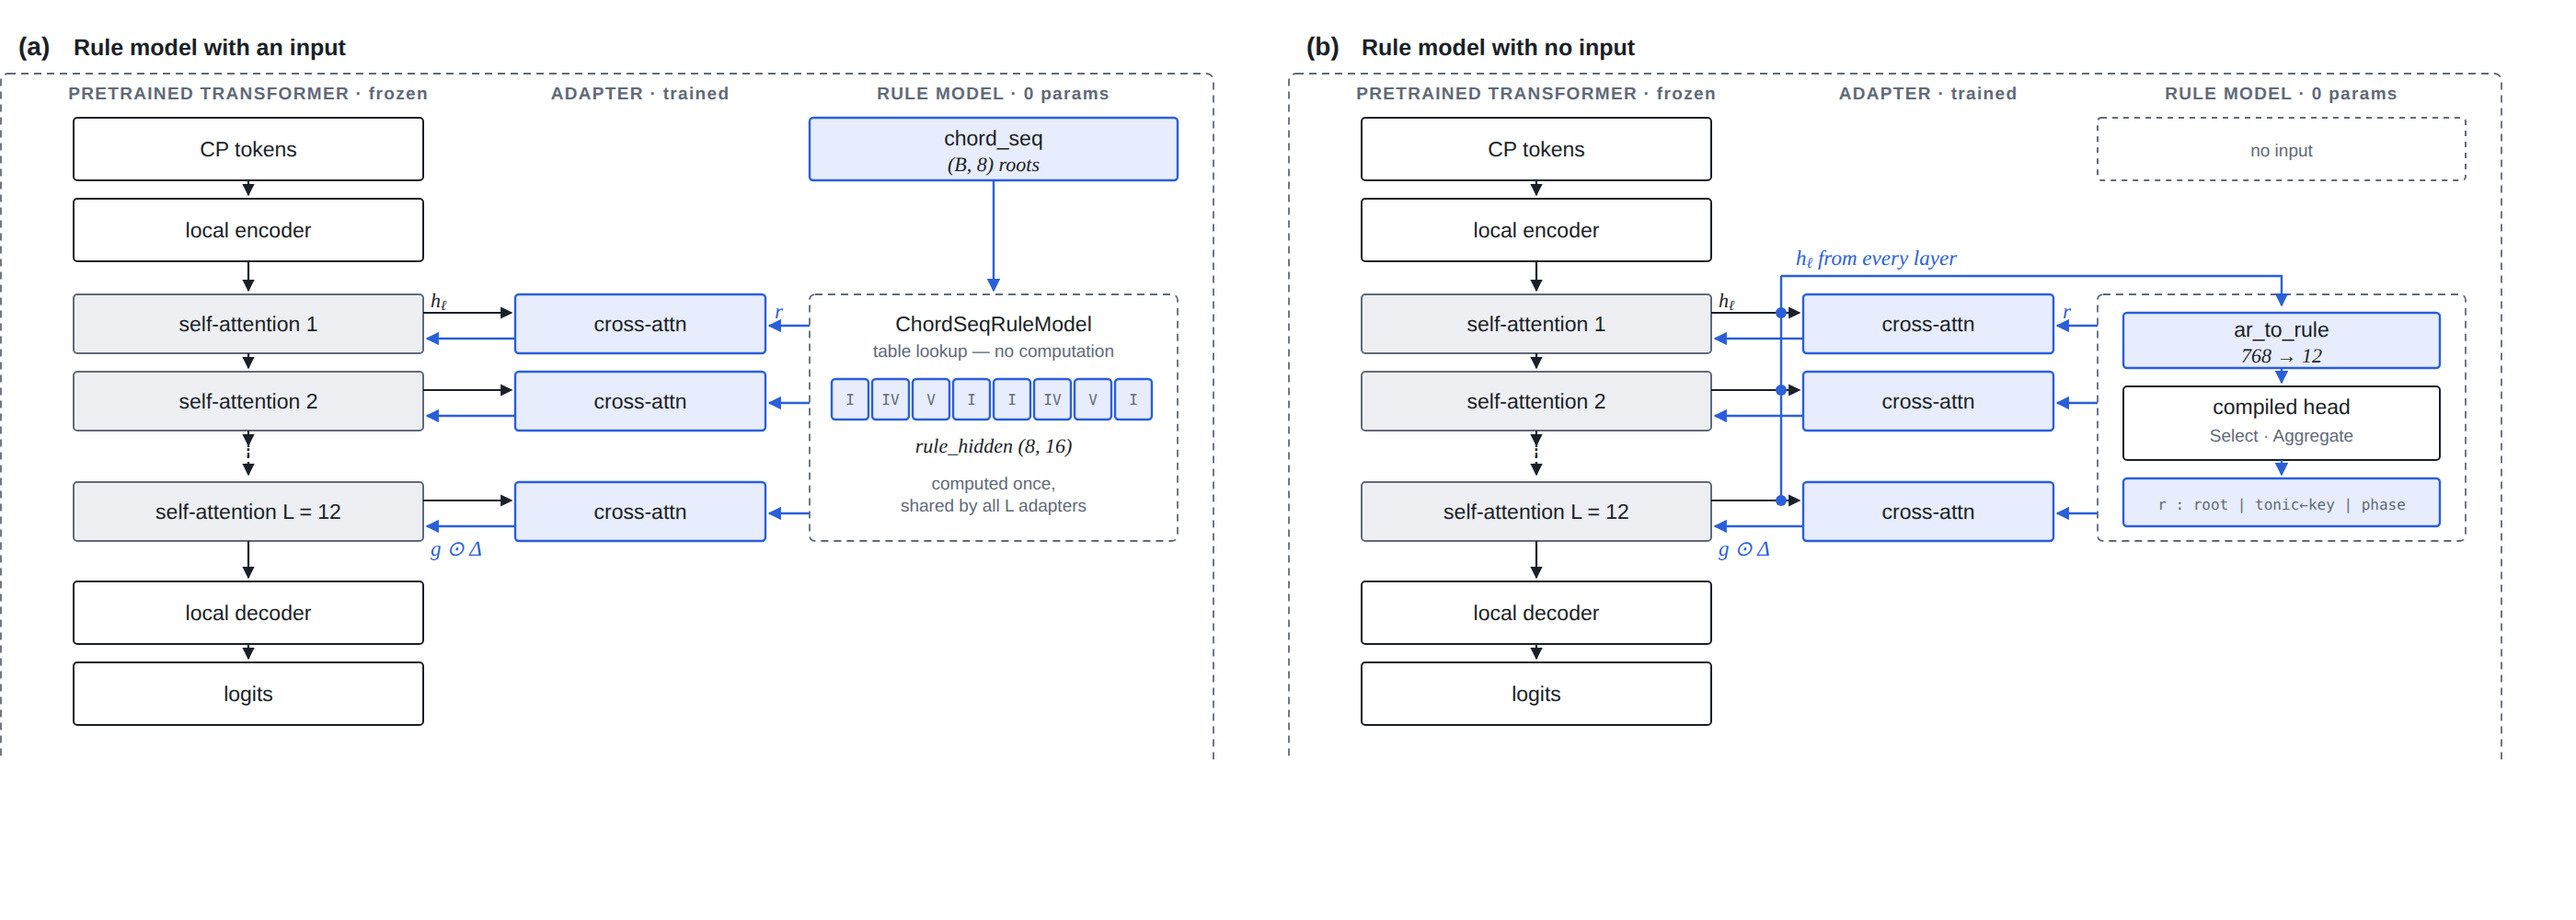
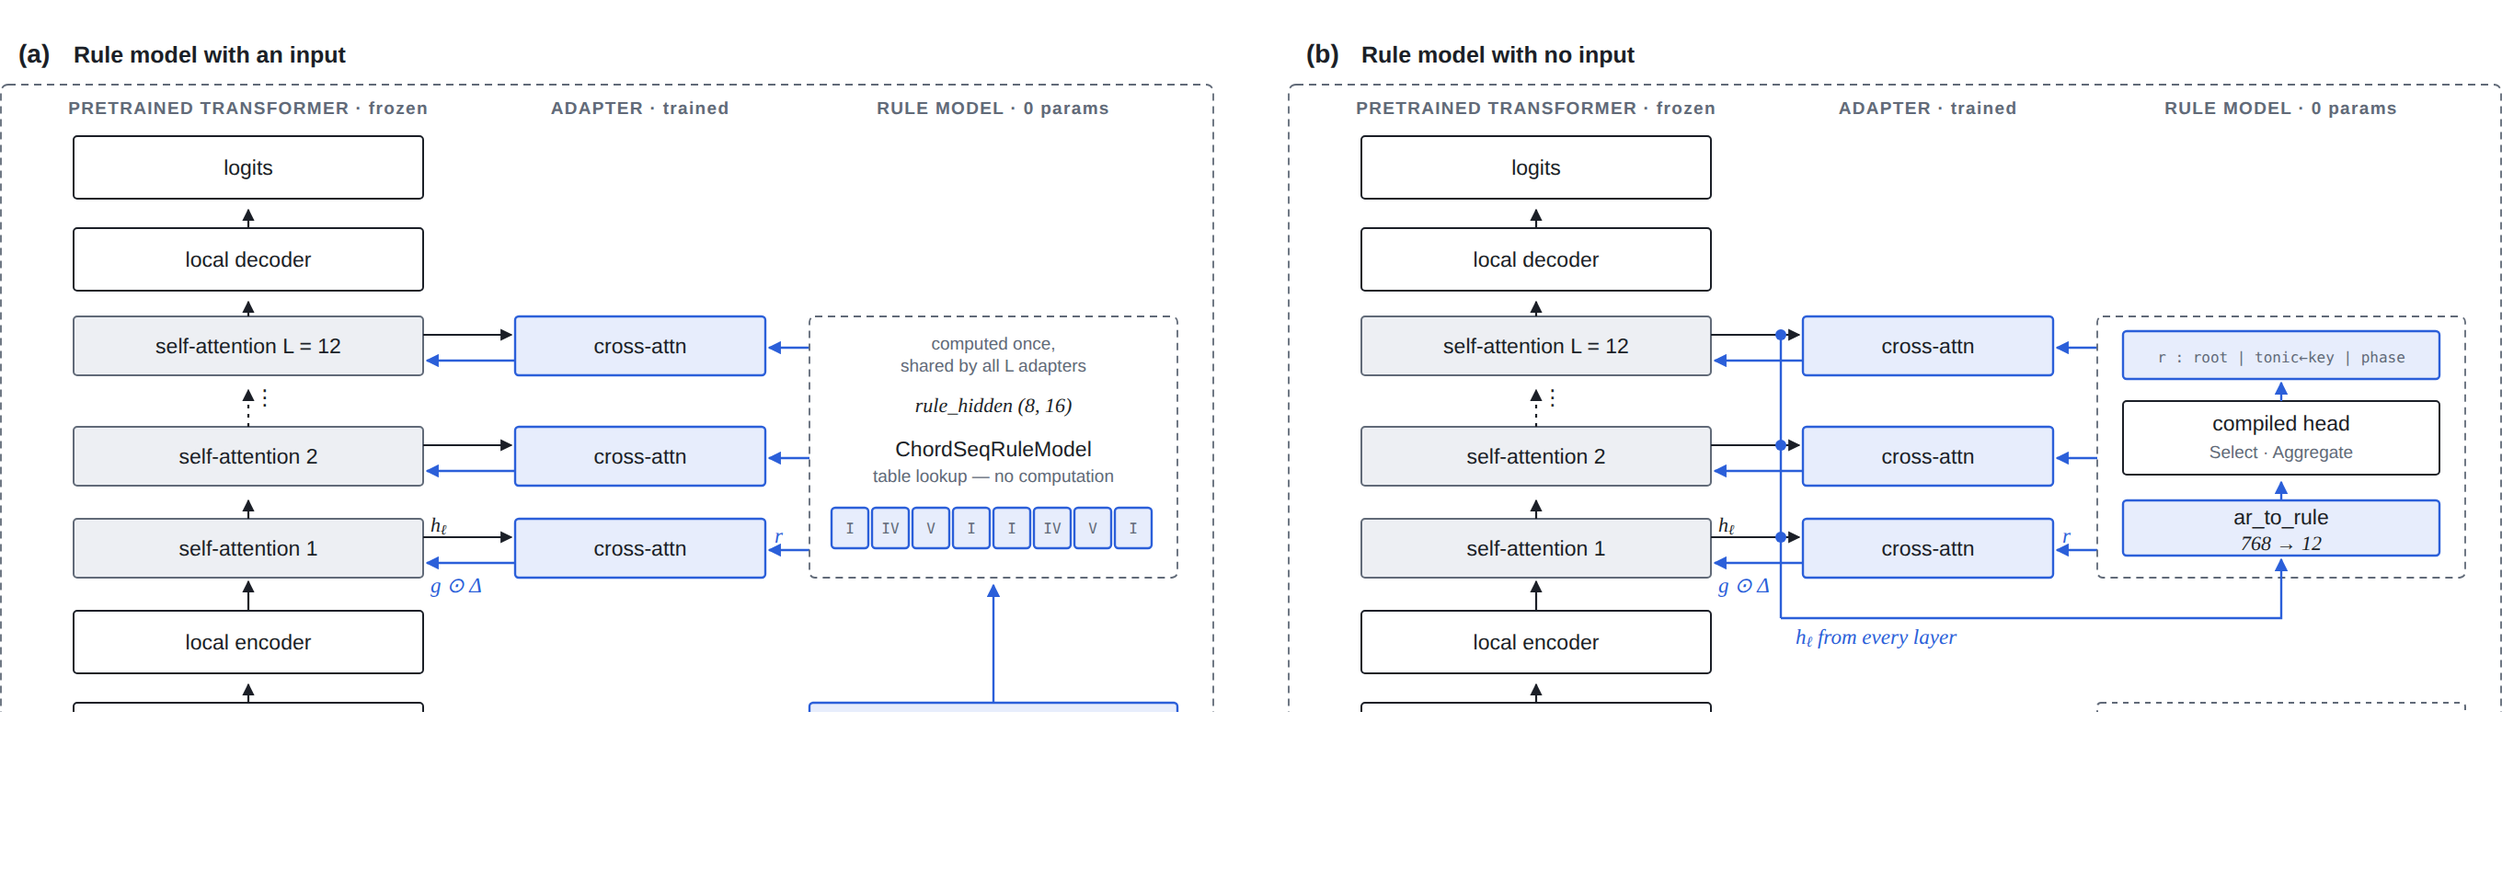
Flip the two-tower figure to bottom-to-top flow
Input now enters at the bottom of each tower and the flow reads upward:
CP tokens -> local encoder -> self-attention 1..L -> local decoder ->
logits, with every arrow pointing up. The rule tower mirrors it --
chord_seq enters at the bottom in (a), and in (b) ar_to_rule sits at the
bottom with the compiled head above it and r at the top, fed by an h bus
routed under the layer band.

Text blocks inside the rule tower are ordered so titles still read
top-to-bottom within each block, even though the flow reads upward.

Claude-Session: https://claude.ai/code/session_01HEgj554V7N4X7CkvQrMZay

diff --git a/figures/make_arch_figures.py b/figures/make_arch_figures.py
@@ -875,34 +875,39 @@ FIGS.append(('model_architecture_vertical', 860, 1080, fig_vertical,
 TW_LX, TW_LW = 40, 190      # left tower
 TW_AX, TW_AW = 280, 136     # adapter column
 TW_RX, TW_RW = 440, 200     # right tower
-TW_ROWS = [(160, '1'), (202, '2'), (262, 'L = 12')]
+
+# Flow runs BOTTOM to TOP: input at the bottom, logits at the top, arrows up.
+TW_Y = {'logits': 74, 'decoder': 124, 'encoder': 332, 'tokens': 382}
+TW_ROWS = [(282, '1'), (232, '2'), (172, 'L = 12')]     # layer 1 lowest
+TW_BAND = (172, 314)        # top and bottom of the layer band
 
 
 def _tower_left():
     s = []
     cx = TW_LX + TW_LW / 2
-    s.append(_label_box(TW_LX, 64, TW_LW, 34, 'CP tokens', None))
-    s.append(_parr(cx, 98, cx, 106))
-    s.append(_label_box(TW_LX, 108, TW_LW, 34, 'local encoder', None))
-    s.append(_parr(cx, 142, cx, 158))
+    s.append(_pt(cx, 62, 'PRETRAINED TRANSFORMER · frozen', 'plane-t', 'middle'))
+    s.append(_label_box(TW_LX, TW_Y['tokens'], TW_LW, 34, 'CP tokens', None))
+    s.append(_parr(cx, TW_Y['tokens'], cx, TW_Y['encoder'] + 40))
+    s.append(_label_box(TW_LX, TW_Y['encoder'], TW_LW, 34, 'local encoder', None))
+    s.append(_parr(cx, TW_Y['encoder'], cx, TW_ROWS[0][0] + 34))
     for i, (y, name) in enumerate(TW_ROWS):
         s.append(_label_box(TW_LX, y, TW_LW, 32, f'self-attention {name}', None, 'pfroz'))
-        if i < 2:
-            s.append(_parr(cx, y + 32, cx, y + 40))
-    s.append(f'<line x1="{cx}" y1="236" x2="{cx}" y2="258" class="parw" '
-             f'stroke-dasharray="2 3" marker-end="url(#ar-ink)"/>')
-    s.append(_pt(cx, 252, '⋮', 'plbl', 'middle'))
-    s.append(_parr(cx, 294, cx, 314))
-    s.append(_label_box(TW_LX, 316, TW_LW, 34, 'local decoder', None))
-    s.append(_parr(cx, 350, cx, 358))
-    s.append(_label_box(TW_LX, 360, TW_LW, 34, 'logits', None))
-    s.append(_pt(cx, 54, 'PRETRAINED TRANSFORMER · frozen', 'plane-t', 'middle'))
+        if i == 0:
+            s.append(_parr(cx, y, cx, TW_ROWS[1][0] + 40))
+    # dotted continuation between layer 2 and layer L
+    s.append(f'<line x1="{cx}" y1="{TW_ROWS[1][0]}" x2="{cx}" y2="{TW_ROWS[2][0] + 40}" '
+             f'class="parw" stroke-dasharray="2 3" marker-end="url(#ar-ink)"/>')
+    s.append(_pt(cx + 9, TW_ROWS[1][0] - 12, '⋮', 'plbl', 'middle'))
+    s.append(_parr(cx, TW_ROWS[2][0], cx, TW_Y['decoder'] + 40))
+    s.append(_label_box(TW_LX, TW_Y['decoder'], TW_LW, 34, 'local decoder', None))
+    s.append(_parr(cx, TW_Y['decoder'], cx, TW_Y['logits'] + 40))
+    s.append(_label_box(TW_LX, TW_Y['logits'], TW_LW, 34, 'logits', None))
     return ''.join(s)
 
 
 def _adapters():
     """The bridge: h in from the left, r in from the right, gΔ back left."""
-    s = [_pt(TW_AX + TW_AW / 2, 54, 'ADAPTER · trained', 'plane-t', 'middle')]
+    s = [_pt(TW_AX + TW_AW / 2, 62, 'ADAPTER · trained', 'plane-t', 'middle')]
     for i, (y, _) in enumerate(TW_ROWS):
         s.append(_label_box(TW_AX, y, TW_AW, 32, 'cross-attn', None, 'pacc'))
         s.append(_parr(TW_LX + TW_LW, y + 10, TW_AX - 2, y + 10))
@@ -910,61 +915,63 @@ def _adapters():
         s.append(_parr(TW_RX, y + 17, TW_AX + TW_AW + 2, y + 17, 'parwa', 'ar-flow'))
         if i == 0:
             s.append(_ptr(TW_LX + TW_LW + 4, y + 7, msub('h', 'ℓ'), 'pmath'))
-            s.append(_pt(TW_AX + TW_AW + 5, y + 13, 'r', 'pmathf'))
-        if i == len(TW_ROWS) - 1:
             s.append(_ptr(TW_LX + TW_LW + 4, y + 40, 'g ⊙ Δ', 'pmathf'))
+            s.append(_pt(TW_AX + TW_AW + 5, y + 13, 'r', 'pmathf'))
     return ''.join(s)
 
 
 def _tower_right(with_input):
-    s = [_pt(TW_RX + TW_RW / 2, 54, 'RULE MODEL · 0 params', 'plane-t', 'middle')]
+    s = [_pt(TW_RX + TW_RW / 2, 62, 'RULE MODEL · 0 params', 'plane-t', 'middle')]
     cx = TW_RX + TW_RW / 2
-    s.append(_pbox(TW_RX, 160, TW_RW, 134, 'pdash', 3))
+    top, bot = TW_BAND
+    s.append(_pbox(TW_RX, top, TW_RW, bot - top, 'pdash', 3))
 
     if with_input:
-        # its own external input, mirroring CP tokens on the left
-        s.append(_label_box(TW_RX, 64, TW_RW, 34, 'chord_seq', '(B, 8) roots', 'pacc'))
-        s.append(_parr(cx, 98, cx, 158, 'parwa', 'ar-flow'))
-        s.append(_pt(cx, 180, 'ChordSeqRuleModel', 'plbl', 'middle'))
-        s.append(_pt(cx, 194, 'table lookup — no computation', 'pcap', 'middle'))
+        # its own external input, at the bottom, mirroring CP tokens
+        s.append(_label_box(TW_RX, TW_Y['tokens'], TW_RW, 34, 'chord_seq',
+                            '(B, 8) roots', 'pacc'))
+        s.append(_parr(cx, TW_Y['tokens'], cx, bot + 4, 'parwa', 'ar-flow'))
         for c, (deg, _) in enumerate(CHORDS):
             x = 452 + c * 22
-            s.append(_pbox(x, 206, 20, 22, 'pacc', 2))
-            s.append(_pt(x + 10, 220, deg, 'pnum', 'middle'))
-        s.append(_pt(cx, 246, 'rule_hidden  (8, 16)', 'pmath', 'middle'))
-        s.append(_pt(cx, 266, 'computed once,', 'pcap', 'middle'))
-        s.append(_pt(cx, 278, 'shared by all L adapters', 'pcap', 'middle'))
+            s.append(_pbox(x, 276, 20, 22, 'pacc', 2))
+            s.append(_pt(x + 10, 290, deg, 'pnum', 'middle'))
+        # titles read top-to-bottom even though the flow reads bottom-to-top
+        s.append(_pt(cx, 248, 'ChordSeqRuleModel', 'plbl', 'middle'))
+        s.append(_pt(cx, 262, 'table lookup — no computation', 'pcap', 'middle'))
+        s.append(_pt(cx, 224, 'rule_hidden  (8, 16)', 'pmath', 'middle'))
+        s.append(_pt(cx, 190, 'computed once,', 'pcap', 'middle'))
+        s.append(_pt(cx, 202, 'shared by all L adapters', 'pcap', 'middle'))
     else:
-        # fed by the transformer instead: no external input exists
-        s.append(_pbox(TW_RX, 64, TW_RW, 34, 'pempty'))
-        s.append(_pt(cx, 85, 'no input', 'pcap', 'middle'))
-        s.append(_label_box(TW_RX + 14, 170, TW_RW - 28, 30, 'ar_to_rule', '768 → 12', 'pacc'))
-        s.append(_parr(cx, 200, cx, 208, 'parwa', 'ar-flow'))
-        s.append(_pbox(TW_RX + 14, 210, TW_RW - 28, 40, 'pbx'))
-        s.append(_pt(cx, 225, 'compiled head', 'plbl', 'middle'))
-        s.append(_pt(cx, 240, 'Select · Aggregate', 'pcap', 'middle'))
-        s.append(_parr(cx, 250, cx, 258, 'parwa', 'ar-flow'))
-        s.append(_pbox(TW_RX + 14, 260, TW_RW - 28, 26, 'pacc'))
-        s.append(_pt(cx, 277, 'r :  root | tonic←key | phase', 'pnum', 'middle'))
-        # bus tapped off every layer's h, routed over the top into ar_to_rule
-        bx = TW_AX - 12                               # in the tower/adapter gap
-        s.append(f'<line x1="{bx}" y1="150" x2="{bx}" y2="{TW_ROWS[-1][0] + 10}" '
+        # no external input; the tower is fed by the transformer instead
+        s.append(_pbox(TW_RX, TW_Y['tokens'], TW_RW, 34, 'pempty'))
+        s.append(_pt(cx, TW_Y['tokens'] + 21, 'no input', 'pcap', 'middle'))
+        s.append(_label_box(TW_RX + 14, 272, TW_RW - 28, 30, 'ar_to_rule', '768 → 12', 'pacc'))
+        s.append(_parr(cx, 272, cx, 262, 'parwa', 'ar-flow'))
+        s.append(_pbox(TW_RX + 14, 218, TW_RW - 28, 40, 'pbx'))
+        s.append(_pt(cx, 234, 'compiled head', 'plbl', 'middle'))
+        s.append(_pt(cx, 249, 'Select · Aggregate', 'pcap', 'middle'))
+        s.append(_parr(cx, 218, cx, 208, 'parwa', 'ar-flow'))
+        s.append(_pbox(TW_RX + 14, 180, TW_RW - 28, 26, 'pacc'))
+        s.append(_pt(cx, 197, 'r :  root | tonic←key | phase', 'pnum', 'middle'))
+        # bus tapped off every layer's h, routed under the band into ar_to_rule
+        bx = TW_AX - 12
+        s.append(f'<line x1="{bx}" y1="{TW_ROWS[2][0] + 10}" x2="{bx}" y2="336" '
                  f'class="parwa"/>')
         for y, _ in TW_ROWS:
             s.append(f'<circle cx="{bx}" cy="{y + 10}" r="3" class="pdot"/>')
-        s.append(poly([(bx, 150), (cx, 150), (cx, 166)], 'parwa', 'ar-flow'))
-        s.append(_ptr(bx + 8, 144, msub('h', 'ℓ') + '  from every layer', 'pmathf'))
+        s.append(poly([(bx, 336), (cx, 336), (cx, 304)], 'parwa', 'ar-flow'))
+        s.append(_ptr(bx + 8, 350, msub('h', 'ℓ') + '  from every layer', 'pmathf'))
     return ''.join(s)
 
 
 def _tw_panel(label, title, with_input, note):
-    s = [_pbox(0.5, 40, 659, 406, 'pdash', 4)]
-    s.append(_pt(10, 30, label, 'ppanel'))
-    s.append(_pt(40, 30, title, 'phead'))
+    s = [_pbox(0.5, 46, 659, 386, 'pdash', 4)]
+    s.append(_pt(10, 34, label, 'ppanel'))
+    s.append(_pt(40, 34, title, 'phead'))
     s.append(_tower_left())
     s.append(_adapters())
     s.append(_tower_right(with_input))
-    s.append(_pt(330, 424, note, 'pcap', 'middle'))
+    s.append(_pt(330, 452, note, 'pcap', 'middle'))
     return ''.join(s)
 
 
@@ -974,11 +981,11 @@ def fig_two_tower():
                   'the adapter renders a given plan')
     b = _tw_panel('(b)', 'Rule model with no input',  False,
                   'nothing is supplied — the rule signal is read out of the '
-                  'transformer’s own hidden states')
+                  'transformer\u2019s own hidden states')
     return f'<g>{a}</g><g transform="translate(700,0)">{b}</g>'
 
 
-FIGS.append(('two_tower_architecture', 1360, 460, fig_two_tower,
+FIGS.append(('two_tower_architecture', 1360, 474, fig_two_tower,
              'Pretrained transformer on the left, rule model on the right, '
              'cross-attention adapters bridging them, with and without an '
              'input to the rule model'))
